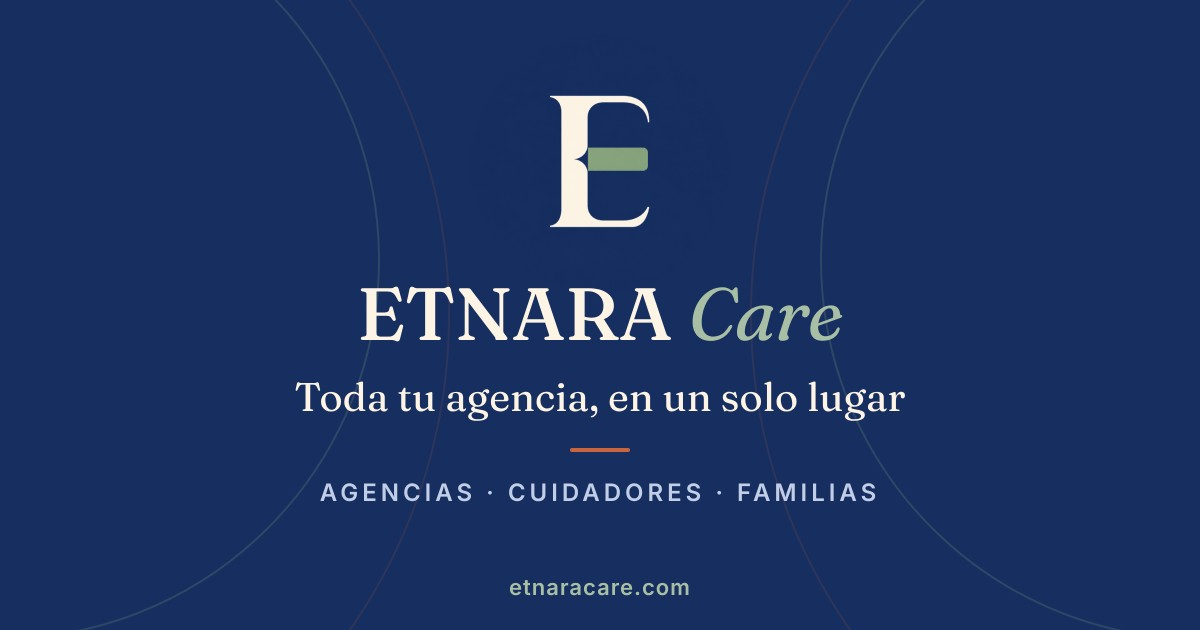
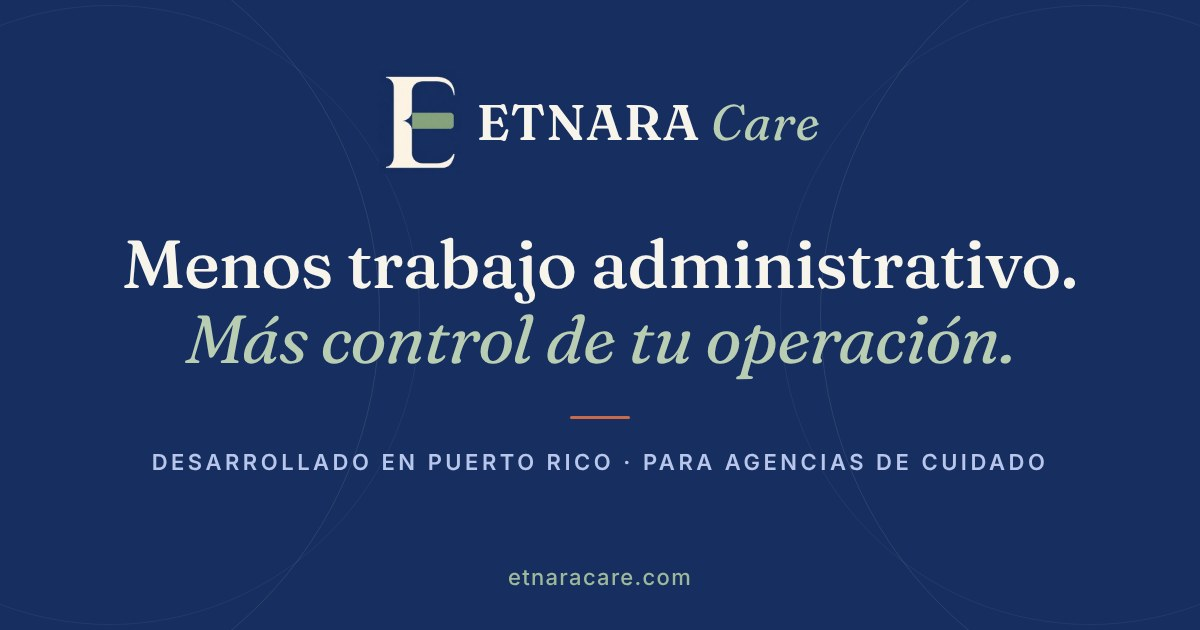
Imagen para compartir con la nueva identidad y redes sociales en el pie
- og-image.jpg nueva (1200x630) con el titular actual; etiquetas og/twitter y ?v=2
- Pie de página: Facebook e Instagram oficiales, pestaña nueva segura y etiquetas accesibles

Claude-Session: https://claude.ai/code/session_01PiRjkCmeFQjHT3d7nYrDH2

Changed region(s): [[0.0925, 0.1206, 0.8942, 0.8143], [0.4008, 0.9048, 0.5858, 0.9651]]

diff --git a/index.html b/index.html
@@ -16,24 +16,24 @@
 <meta property="og:locale" content="es_LA">
 <meta property="og:url" content="https://etnaracare.com/">
 <meta property="og:title" content="ETNARA Care | Menos trabajo administrativo, más control de tu operación">
-<meta property="og:description" content="Tecnología que conecta agencias, cuidadores y familias. Descubre una nueva forma de administrar los servicios de cuido.">
-<meta property="og:image" content="https://etnaracare.com/og-image.jpg?v=1">
-<meta property="og:image:secure_url" content="https://etnaracare.com/og-image.jpg?v=1">
+<meta property="og:description" content="Plataforma desarrollada en Puerto Rico para agencias de cuidado: personal, turnos, documentos y comunicación con las familias en un solo lugar.">
+<meta property="og:image" content="https://etnaracare.com/og-image.jpg?v=2">
+<meta property="og:image:secure_url" content="https://etnaracare.com/og-image.jpg?v=2">
 <meta property="og:image:type" content="image/jpeg">
 <meta property="og:image:width" content="1200">
 <meta property="og:image:height" content="630">
-<meta property="og:image:alt" content="ETNARA Care: Toda tu agencia, en un solo lugar. Agencias, cuidadores y familias.">
+<meta property="og:image:alt" content="ETNARA Care: Menos trabajo administrativo. Más control de tu operación. Desarrollado en Puerto Rico para agencias de cuidado.">
 
 <!-- Twitter / X -->
 <meta name="twitter:card" content="summary_large_image">
 <meta name="twitter:title" content="ETNARA Care | Menos trabajo administrativo, más control de tu operación">
-<meta name="twitter:description" content="Tecnología que conecta agencias, cuidadores y familias. Descubre una nueva forma de administrar los servicios de cuido.">
-<meta name="twitter:image" content="https://etnaracare.com/og-image.jpg?v=1">
-<meta name="twitter:image:alt" content="ETNARA Care: Toda tu agencia, en un solo lugar. Agencias, cuidadores y familias.">
+<meta name="twitter:description" content="Plataforma desarrollada en Puerto Rico para agencias de cuidado: personal, turnos, documentos y comunicación con las familias en un solo lugar.">
+<meta name="twitter:image" content="https://etnaracare.com/og-image.jpg?v=2">
+<meta name="twitter:image:alt" content="ETNARA Care: Menos trabajo administrativo. Más control de tu operación. Desarrollado en Puerto Rico para agencias de cuidado.">
 <link rel="preconnect" href="https://fonts.googleapis.com">
 <link rel="preconnect" href="https://fonts.gstatic.com" crossorigin>
 <link href="https://fonts.googleapis.com/css2?family=Fraunces:ital,opsz,wght@0,9..144,400;0,9..144,600;1,9..144,400&family=Inter:wght@400;500;600;700&display=swap" rel="stylesheet">
-<link rel="stylesheet" href="./styles.css?v=8">
+<link rel="stylesheet" href="./styles.css?v=9">
 </head>
 <body>
 
@@ -453,6 +453,10 @@
     <ul class="footer-links">
       <li><span>Contacto</span><a href="mailto:contacto@etnaracare.com">contacto@etnaracare.com</a></li>
       <li><span>Soporte</span><a href="mailto:soporte@etnaracare.com">soporte@etnaracare.com</a></li>
+    </ul>
+    <ul class="footer-social" aria-label="Redes sociales de ETNARA Care">
+      <li><a href="https://www.facebook.com/122103337311535337" target="_blank" rel="noopener noreferrer" aria-label="ETNARA Care en Facebook (se abre en una pestaña nueva)" title="Facebook"><svg viewBox="0 0 24 24" width="20" height="20" aria-hidden="true" focusable="false"><path fill="currentColor" d="M13.5 21v-7.5h2.5l.4-3h-2.9V8.6c0-.9.3-1.5 1.6-1.5h1.4V4.4c-.3 0-1.2-.1-2.2-.1-2.2 0-3.7 1.3-3.7 3.8v2.4H8.1v3h2.5V21z"/></svg></a></li>
+      <li><a href="https://www.instagram.com/etnaracare/" target="_blank" rel="noopener noreferrer" aria-label="ETNARA Care en Instagram (se abre en una pestaña nueva)" title="Instagram"><svg viewBox="0 0 24 24" width="20" height="20" aria-hidden="true" focusable="false" fill="none" stroke="currentColor" stroke-width="1.8"><rect x="3.5" y="3.5" width="17" height="17" rx="5"/><circle cx="12" cy="12" r="4"/><circle cx="17.2" cy="6.8" r="1" fill="currentColor" stroke="none"/></svg></a></li>
     </ul>
   </div>
   <div class="wrap footer-bottom">

diff --git a/styles.css b/styles.css
@@ -356,3 +356,10 @@ section[id]{scroll-margin-top:76px}
 .mini-nav i{width:1.4em;height:1.4em;border-radius:.45em;background:var(--line-2)}
 .mini-nav i.on{background:var(--navy)}
 @media (max-width:900px){.devices{font-size:clamp(5px,1.55vw,12.5px);margin:0 3.2em}}
+
+/* Redes sociales (pie de página) */
+.footer-social{list-style:none;margin:0 0 0 auto;padding:0;display:flex;gap:10px}
+@media (max-width:900px){.footer-social{margin-left:0;width:100%}}
+.footer-social a{width:44px;height:44px;display:grid;place-items:center;border-radius:50%;border:1px solid #1D3A5E;color:var(--sage-light);transition:color .15s,border-color .15s,background .15s}
+.footer-social a:hover,.footer-social a:focus-visible{color:var(--cream);border-color:var(--sage);background:rgba(143,168,139,.12)}
+.footer-social a:focus-visible{outline:2px solid var(--sage-light);outline-offset:2px}
